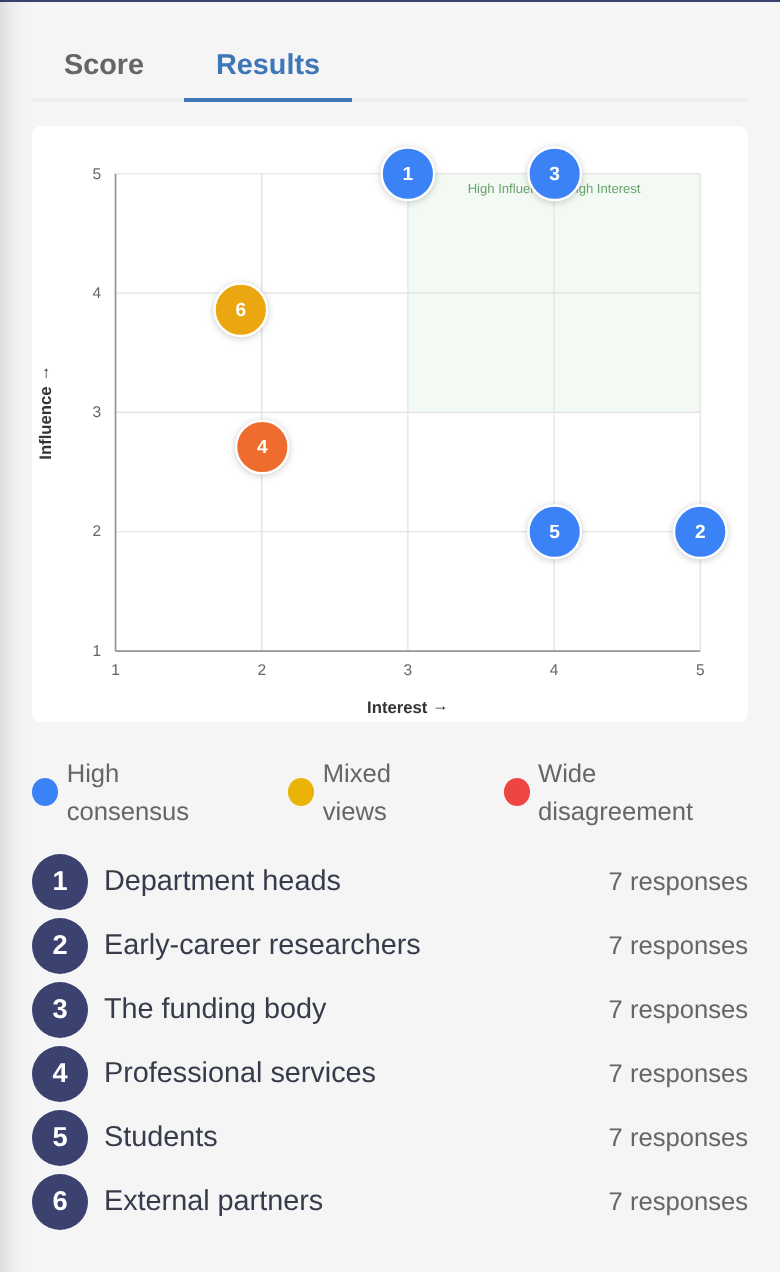
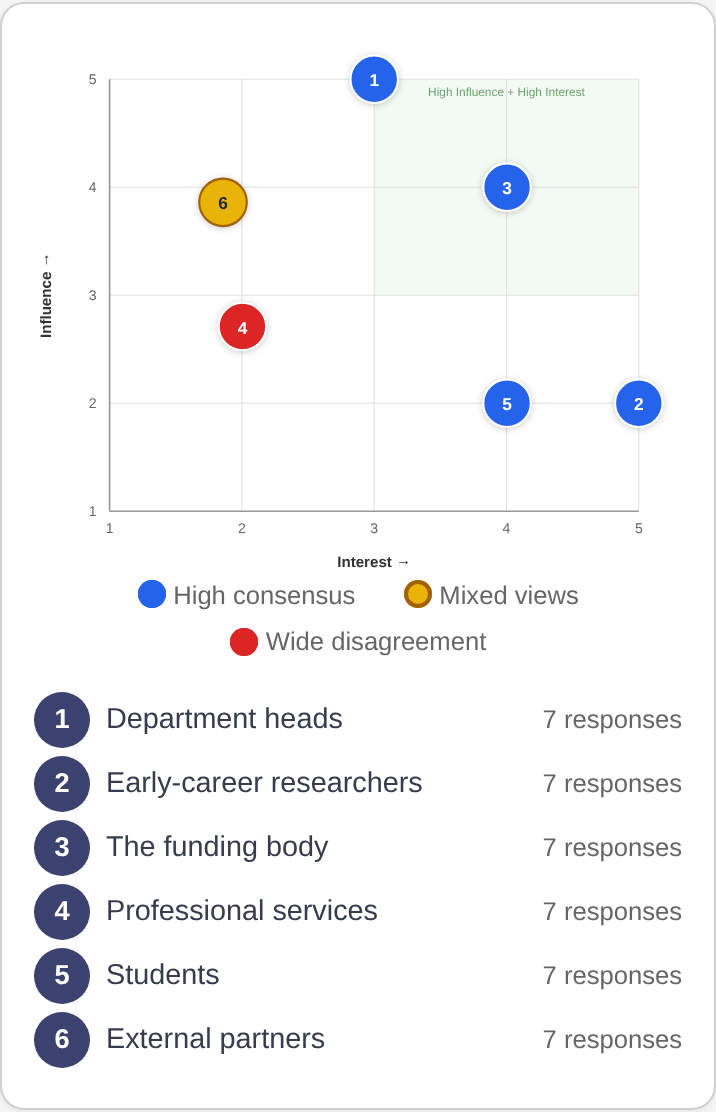
Help: figure cards and PNG downloads for the scatter tools, Word Cloud and Group Sort
Samvinas v1.121.0 and v1.122.0 put charts in a white card sized to fit the
window and added PNG downloads.

- Value / Doability, Stakeholder Map: new screenshots; the colours are named
  correctly (blue, yellow, red; the pages said orange and amber); how the plot
  fits the Display; Download chart (PNG) on the Data tab.
- Word Cloud: new screenshot; the cloud stays on screen; Download word cloud
  (PNG).
- Group Sort: the Tree and Similarity map fit the Display.

Claude-Session: https://claude.ai/code/session_01AVkW4mfCcQAvfHhjSW8zkF

diff --git a/content/facilitator/value-doability.md b/content/facilitator/value-doability.md
@@ -12,10 +12,16 @@ you've generated and grouped ideas.
 - Give people time — the Submit bar sits at the bottom of the list.
 
 The results view plots every idea on the two axes. Dot colour is agreement, not
-score — orange means the room is split, which is usually the more interesting
-conversation.
+score: blue is high consensus, yellow is mixed views, and red means the room is
+split, which is usually the more interesting conversation.
 
-![The Value / Doability results view: a scatter plot with do-ability across the bottom and value up the side, the high-value high-do-ability quadrant tinted green. Six numbered dots are placed across the grid; four are blue for high consensus and two orange for wide disagreement. A numbered key below lists each idea with its response count.](/assets/images/screenshots/value-doability-scatter.png)
+![The Value / Doability results view, in a white card: a scatter plot with do-ability across the bottom and value up the side, the high-value high-do-ability quadrant tinted green. Six numbered dots are placed across the grid; four are blue for high consensus and two red for wide disagreement. Under the plot, a key names the three colours, and a numbered list gives each idea with its response count.](/assets/images/screenshots/value-doability-scatter.png)
+
+- On the **Display**, the plot is sized to fit the screen; the numbered list
+  continues below it.
+- To put the chart on a slide, open the tool's **⚙ → Data** tab and press
+  **Download chart (PNG)**. The image has the plot, the colour key and the
+  numbered list.
 
 Value / Doability consumes idea items from an earlier tool — connect its
 **Source** and, if you voted first, filter to the items with enough votes.

diff --git a/content/facilitator/stakeholder-map.md b/content/facilitator/stakeholder-map.md
@@ -9,7 +9,12 @@ people and groups on two axes (Influence / Interest by default). An
 - Pipe in the list of stakeholders (from a Brainstorm of "who's affected?").
 - Set the axis labels to fit your framework.
 
-![The Stakeholder Map results view: the same scatter plot with Interest across the bottom and Influence up the side. Six numbered dots spread across the quadrants, coloured blue, amber and orange according to how much the group agreed. A numbered key below names each stakeholder group.](/assets/images/screenshots/stakeholder-map-scatter.png)
+![The Stakeholder Map results view, in a white card: the same scatter plot with Interest across the bottom and Influence up the side. Six numbered dots spread across the quadrants, coloured blue, yellow or red according to how much the group agreed. Under the plot, a key names the three colours, and a numbered list names each stakeholder group.](/assets/images/screenshots/stakeholder-map-scatter.png)
+
+- On the **Display**, the map is sized to fit the screen; the numbered list
+  continues below it.
+- To put the map on a slide, open the tool's **⚙ → Data** tab and press
+  **Download chart (PNG)**.
 
 ## Paper and pen
 

diff --git a/content/facilitator/group-sort.md b/content/facilitator/group-sort.md
@@ -29,8 +29,10 @@ method.
   on the Settings tab, participants can name them too.
 - Once the groups are final, the projector has four views: the named
   **Groups**, the **Tree** showing how the ideas joined, a **Similarity** map
-  with the most-agreed pairs, and **Ideas by group**. The event report and the
-  CSV export carry the same results.
+  with the most-agreed pairs, and **Ideas by group**. The Tree and the
+  Similarity map are sized to fit the screen, each in a white card with its
+  explanation; a very long tree scrolls instead of shrinking past a readable
+  size. The event report and the CSV export carry the same results.
 - **Later steps receive the groups by name.** Pipe Group Sort into Voting to
   vote on the themes. Nothing passes on until you finalise, and renaming a group
   afterwards keeps any votes on it. **Reopen** takes the groups back out of

diff --git a/content/participant/value-doability.md b/content/participant/value-doability.md
@@ -9,7 +9,7 @@ is it? The scores plot each idea on a grid.
 - The scatter plot shows where every idea lands, coloured by how much the group
   agrees.
 
-![The results view: a scatter plot with do-ability across the bottom and value up the side. Each idea is a numbered dot, coloured by how much the group agreed rather than by its score, with a numbered key beneath.](/assets/images/screenshots/value-doability-scatter.png)
+![The results view, in a white card: a scatter plot with do-ability across the bottom and value up the side. Each idea is a numbered dot, coloured by how much the group agreed rather than by its score: blue for high consensus, yellow for mixed views, red for wide disagreement. A numbered list beneath names each idea.](/assets/images/screenshots/value-doability-scatter.png)
 
 ## Reading the grid
 

diff --git a/content/participant/stakeholder-map.md b/content/participant/stakeholder-map.md
@@ -8,7 +8,7 @@ have and how **interested** they are.
 - For each stakeholder, set their position on both axes.
 - The map shows everyone's placements together.
 
-![The Stakeholder Map results view: Interest across the bottom, Influence up the side, each group a numbered dot coloured by how much the room agreed, with a numbered key beneath.](/assets/images/screenshots/stakeholder-map-scatter.png)
+![The Stakeholder Map results view: Interest across the bottom, Influence up the side, each group a numbered dot coloured by how much the room agreed (blue for high consensus, yellow for mixed views, red for wide disagreement), with a numbered list beneath, all in one white card.](/assets/images/screenshots/stakeholder-map-scatter.png)
 
 ## Tips
 

diff --git a/content/participant/wordcloud.md b/content/participant/wordcloud.md
@@ -8,7 +8,7 @@ it appeared.
 - The cloud updates as ideas come in.
 - Common filler words are removed so the meaningful terms stand out.
 
-![A word cloud built from everything the group typed. Frequently repeated words such as "time", "meetings", "approval", "handovers" and "slow" appear largest; words used once appear small. Colour is decorative and carries no meaning.](/assets/images/screenshots/wordcloud.png)
+![A word cloud in a white card, built from everything the group typed. Frequently repeated words such as "time", "meetings", "approval", "handovers" and "slow" appear largest; words used once appear small. Colour is decorative and carries no meaning.](/assets/images/screenshots/wordcloud.png)
 
 ## Tips
 

diff --git a/content/facilitator/wordcloud.md b/content/facilitator/wordcloud.md
@@ -7,7 +7,10 @@ shared language.
 ## Samvinas
 
 - Pipe in a text-rich tool (Brainstorm, Rich Brainstorm).
-- Project it on the **Display** for the room.
+- Project it on the **Display** for the room. The words shrink if they need to,
+  so the whole cloud stays on screen without scrolling.
+- To put the cloud on a slide, open the tool's **⚙ → Data** tab and press
+  **Download word cloud (PNG)**. The image is landscape.
 
 Word Cloud consumes the text of whatever you pipe into it — the richer the
 source, the more the cloud has to say.
